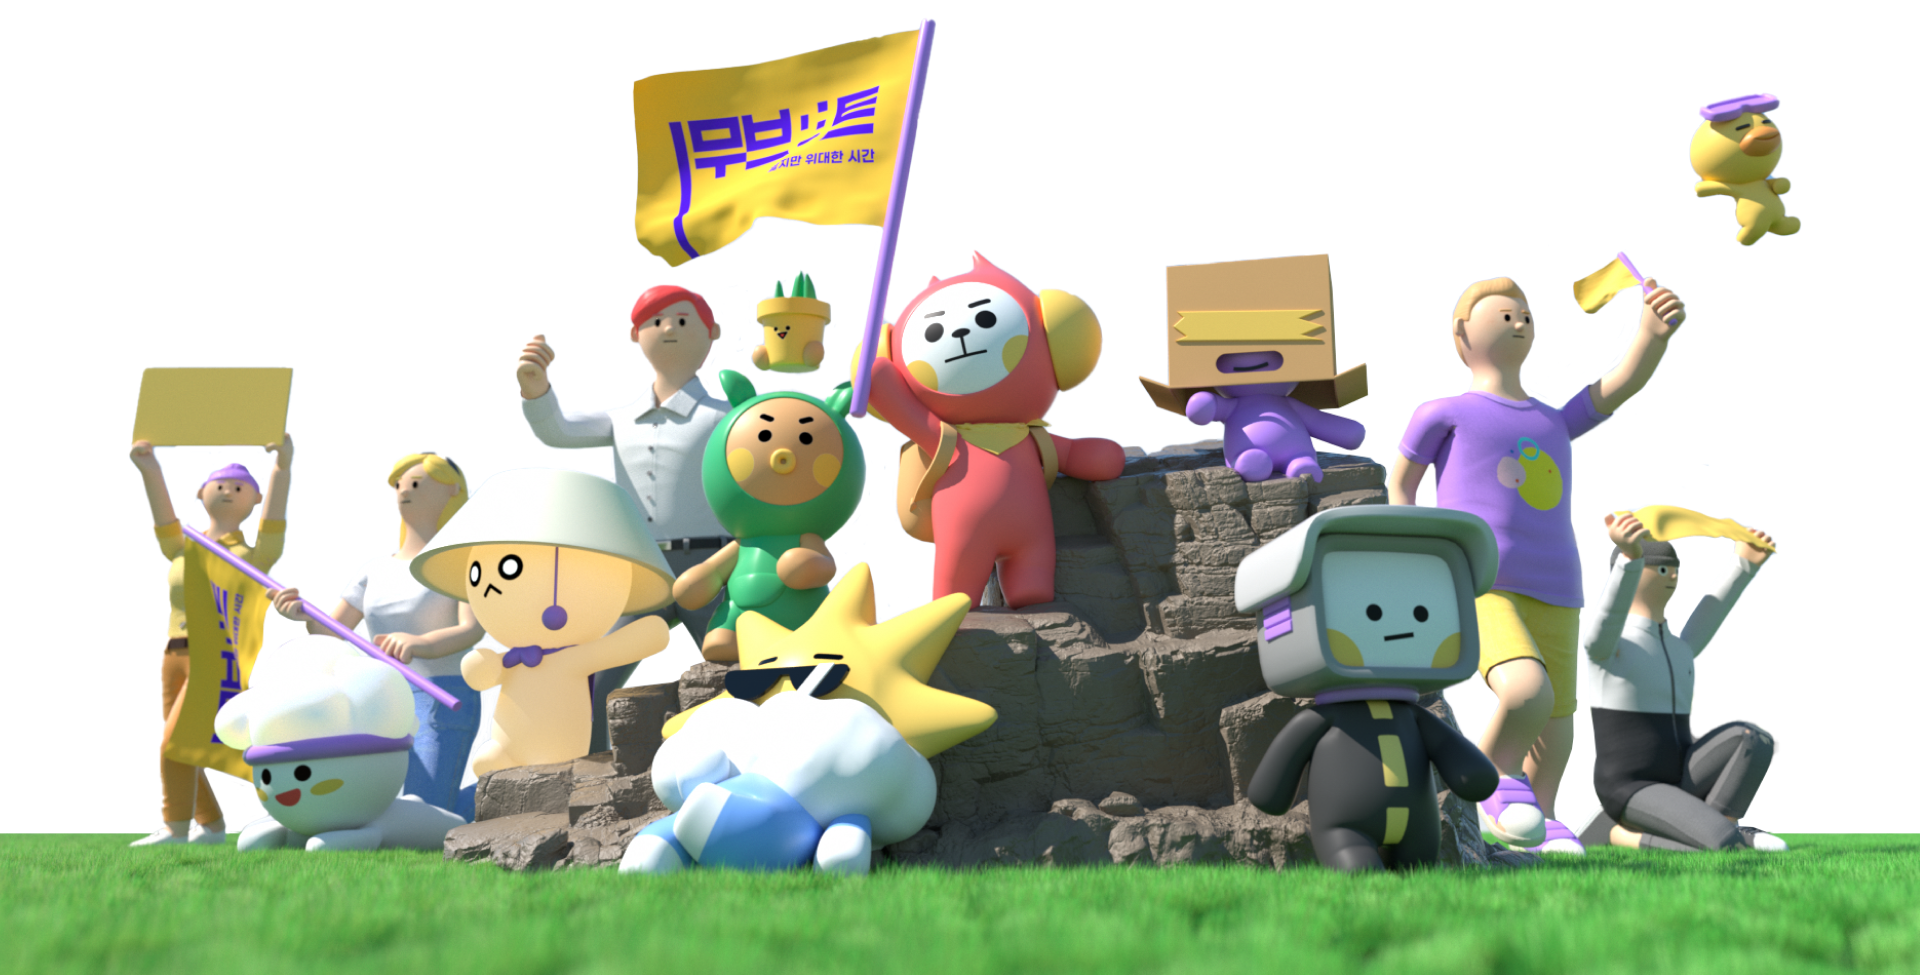
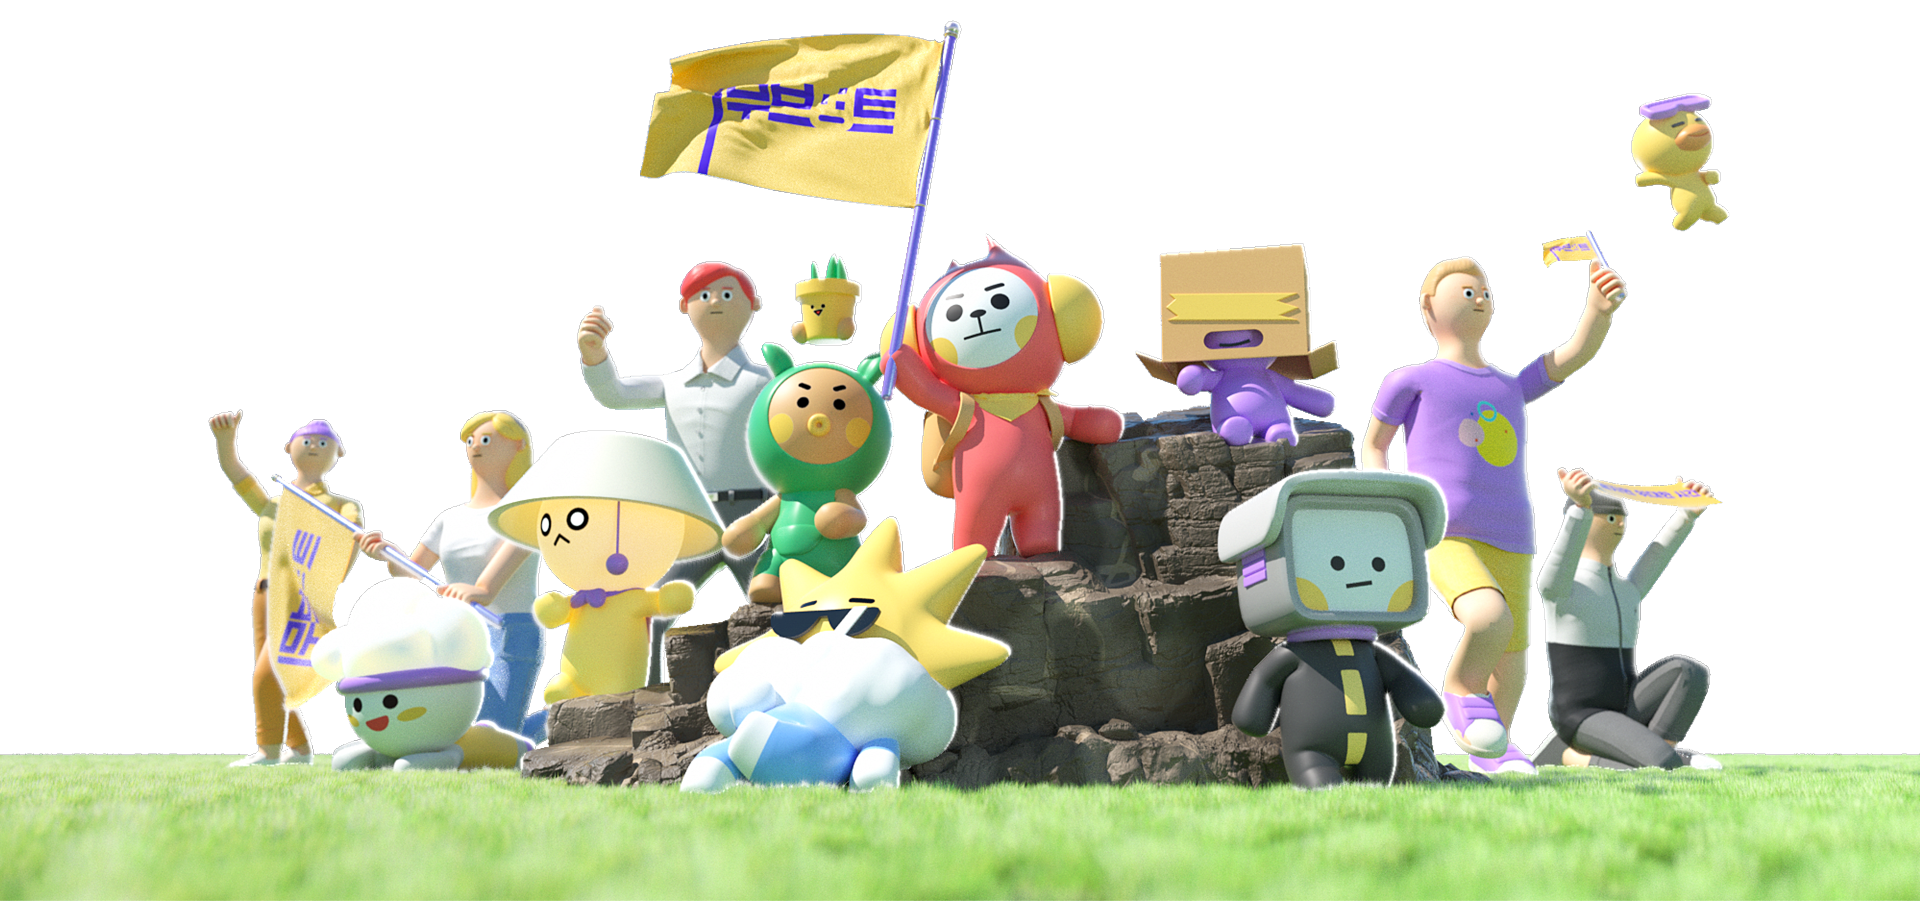
1104 img update

diff --git a/css/section3_character.css b/css/section3_character.css
@@ -47,18 +47,6 @@
   margin-bottom: 240px;
 }
 
-.character-bg-box {
-  /*  width: 100%;
-  height: 1864.5px;
-  position: absolute;
-  top: 0;
-  left: 165px;
-  transform: skewX(10deg);
-  background: #FFCD4C;
-  z-index: .5;*/
-  display: none;
-}
-
 .character-intro {
   display: flex;
   flex-direction: column;
@@ -157,24 +145,14 @@
 }
 
 .img-box .img3D {
-  transform: translateY(360px);
+  transform: translateY(55%);
   transition: all .2s;
-  width: 720px;
-  height: 720px;
-}
-
-.water .img3D {
-  width: 600px;
-  height: 600px;
-}
-
-.city .img3D {
-  width: 800px;
-  height: 800px;
+  width: 100%;
+  height: 100%;
 }
 
 .img-box:hover .img3D {
-  transform: translateY(100px);
+  transform: translateY(0%);
 }
 
 .character-logo {
@@ -240,25 +218,6 @@
     margin-bottom: 160px;
   }
 
-  .character-bg-box {
-    /*    width: 100%;
-    height: 1864.5px;
-    position: absolute;
-    top: 0;
-    left: 165px;
-    transform: skewX(10deg);
-    background: #FFCD4C;
-    z-index: .5;*/
-    display: none;
-  }
-
-  /*  .character-intro{
-    display: flex;
-    flex-direction: column;
-    justify-content: center;
-    align-items: center;
-      z-index: 1;
-  }*/
   .intro-title {
     /*  display: flex;
     flex-direction: row;*/
@@ -316,27 +275,6 @@
     align-items: center;*/
   }
 
-  .img-box .img3D {
-    transform: translateY(45%);
-    /*    transition: all .3s;*/
-    width: 480px;
-    height: 480px;
-  }
-
-  .water .img3D {
-    width: 360px;
-    height: 360px;
-  }
-
-  .city .img3D {
-    width: 520px;
-    height: 520px;
-  }
-
-  .img-box:hover .img3D {
-    transform: translateY(12%);
-  }
-
   .character-logo {
     /*  position: absolute;
   align-self: baseline;*/
@@ -392,25 +330,6 @@
     margin-bottom: 0;
   }
 
-  .character-bg-box {
-    /*    width: 100%;
-    height: 1864.5px;
-    position: absolute;
-    top: 0;
-    left: 165px;
-    transform: skewX(10deg);
-    background: #FFCD4C;
-    z-index: .5;*/
-    display: none;
-  }
-
-  /*  .character-intro{
-    display: flex;
-    flex-direction: column;
-    justify-content: center;
-    align-items: center;
-      z-index: 1;
-  }*/
   .intro-title {
     /*  display: flex;
     flex-direction: row;*/
@@ -468,27 +387,6 @@
     align-items: center;*/
   }
 
-  .img-box .img3D {
-    transform: translateY(45%);
-    /*    transition: all .3s;*/
-    width: 720px;
-    height: 720px;
-  }
-
-  .water .img3D {
-    width: 600px;
-    height: 600px;
-    transform: translateY(50%);
-  }
-
-  .city .img3D {
-    width: 800px;
-    height: 800px;
-  }
-
-  .img-box:hover .img3D {
-    transform: translateY(12%);
-  }
 
   .character-logo {
     /*  position: absolute;
@@ -554,27 +452,6 @@
     align-items: center;*/
   }
 
-  .img-box .img3D {
-    transform: translateY(12%);
-    /*    transition: all .3s;*/
-    width: 720px;
-    height: 720px;
-  }
-
-  .water .img3D {
-    width: 600px;
-    height: 600px;
-    transform: translateY(12%);
-  }
-
-  .city .img3D {
-    width: 800px;
-    height: 800px;
-  }
-
-  .img-box:hover .img3D {
-    transform: translateY(12%);
-  }
 
   .character-logo {
     /*  position: absolute;

diff --git a/index.html b/index.html
@@ -174,17 +174,15 @@
             <div class="hands-wrap">
 
               <figure>
-                <img src="img/hand2.png" alt="img/png">
+                <img src="img/hand2.png" alt="img/png" class="img-fluid">
               </figure>
               <figure>
-                <img src="img/hand1.png" alt="img/png">
+                <img src="img/hand1.png" alt="img/png" class="img-fluid">
               </figure>
               <figure>
-                <img src="img/hand3.png" alt="img/png">
+                <img src="img/hand3.png" alt="img/png" class="img-fluid">
               </figure>
-              <figure>
-                <img src="img/hand4.png" alt="img/png">
-              </figure>
+
             </div>
             <figure class="celebration">
               <img src="img/celebration.svg" alt="img/svg">
@@ -258,9 +256,8 @@
               </div>
             </div>
           </div>
-          <div class="character-bg-box"></div>
+
         </div>
-      </div>
     </section>
 
     <div class="character-bottom">
@@ -485,7 +482,7 @@
 
     <script src="js/jquery.1.12.4.js"></script>
     <script type="text/javascript">
-      $(window).load(function(){
+      $(window).load(function() {
         $('.loader').fadeOut();
       });
     </script>

diff --git a/css/section7_testStart.css b/css/section7_testStart.css
@@ -6,7 +6,7 @@
 }
 
 .section7-container {
-  height: 1400px;
+  height: 1350px;
   background-image: url('../img/gradient-bg.jpg');
   position: relative;
   background-position: center;
@@ -64,12 +64,12 @@
 .movemeongt{
   font-family: 'GmarketSansMedium';
   font-size: 16px;
-  color: #f2f3f5;
+  color: #5826E8;
   position: absolute;
   bottom: 0;
   z-index: 3;
   left: 50%;
-  transform: translate(-50%, -150%);
+  transform: translate(-50%, -200%);
 }
 
 @media (max-width: 1024px) {
@@ -154,7 +154,7 @@
 
 @media (max-width: 480px) {
   .section7-container {
-    height: 600px;
+    height: 550px;
 
   }
 
@@ -185,7 +185,6 @@
     font-size: 16px;
     padding-top: 4px;
   }
-
 
   .movemeongt{
     display: none;

diff --git a/testPage/testPage.html b/testPage/testPage.html
@@ -65,6 +65,14 @@
           </button>
         </div>
       </div>
+      <img src="../img/fire_2d.png" width=1 height=1 alt="img/png">
+      <img src="../img/city_2d.png" width=1 height=1 alt="img/png">
+      <img src="../img/sky_2d.png" width=1 height=1 alt="img/png">
+      <img src="../img/wall_2d.png" width=1 height=1 alt="img/png">
+      <img src="../img/plant_2d.png" width=1 height=1 alt="img/png">
+      <img src="../img/light_2d.png" width=1 height=1 alt="img/png">
+      <img src="../img/water_2d.png" width=1 height=1 alt="img/png">
+      <img src="../img/smoke_2d.png" width=1 height=1 alt="img/png">
 
     </section>
 

diff --git a/css/section2_name.css b/css/section2_name.css
@@ -1,6 +1,6 @@
 #name {
   height: 4000px;
-  width: 1920px;
+  width: 100%;
   color: #333333;
   position: relative;
   background-color: #FFCD4C;
@@ -146,7 +146,7 @@
 }
 
 .hands-wrap.active {
-  transform: translateY(-10%);
+  transform: translateY(-18%);
   transition: all .4s;
 }
 
